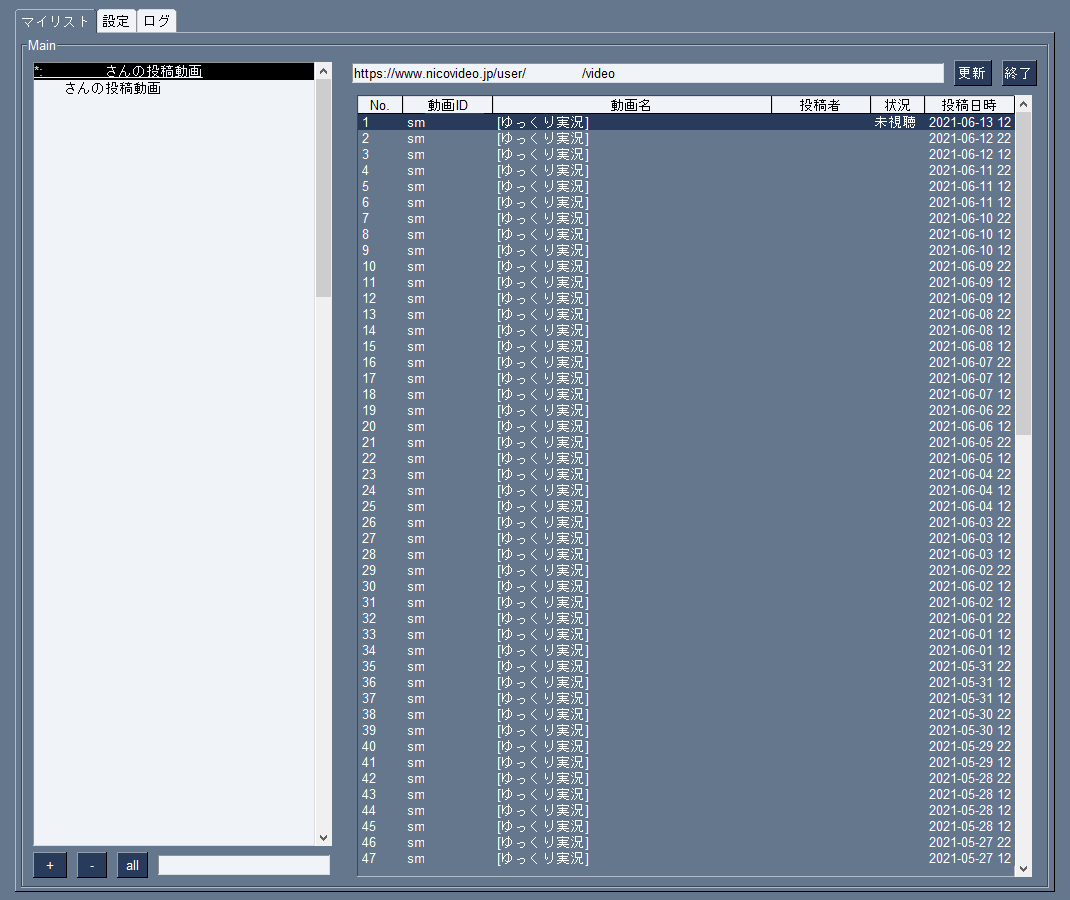
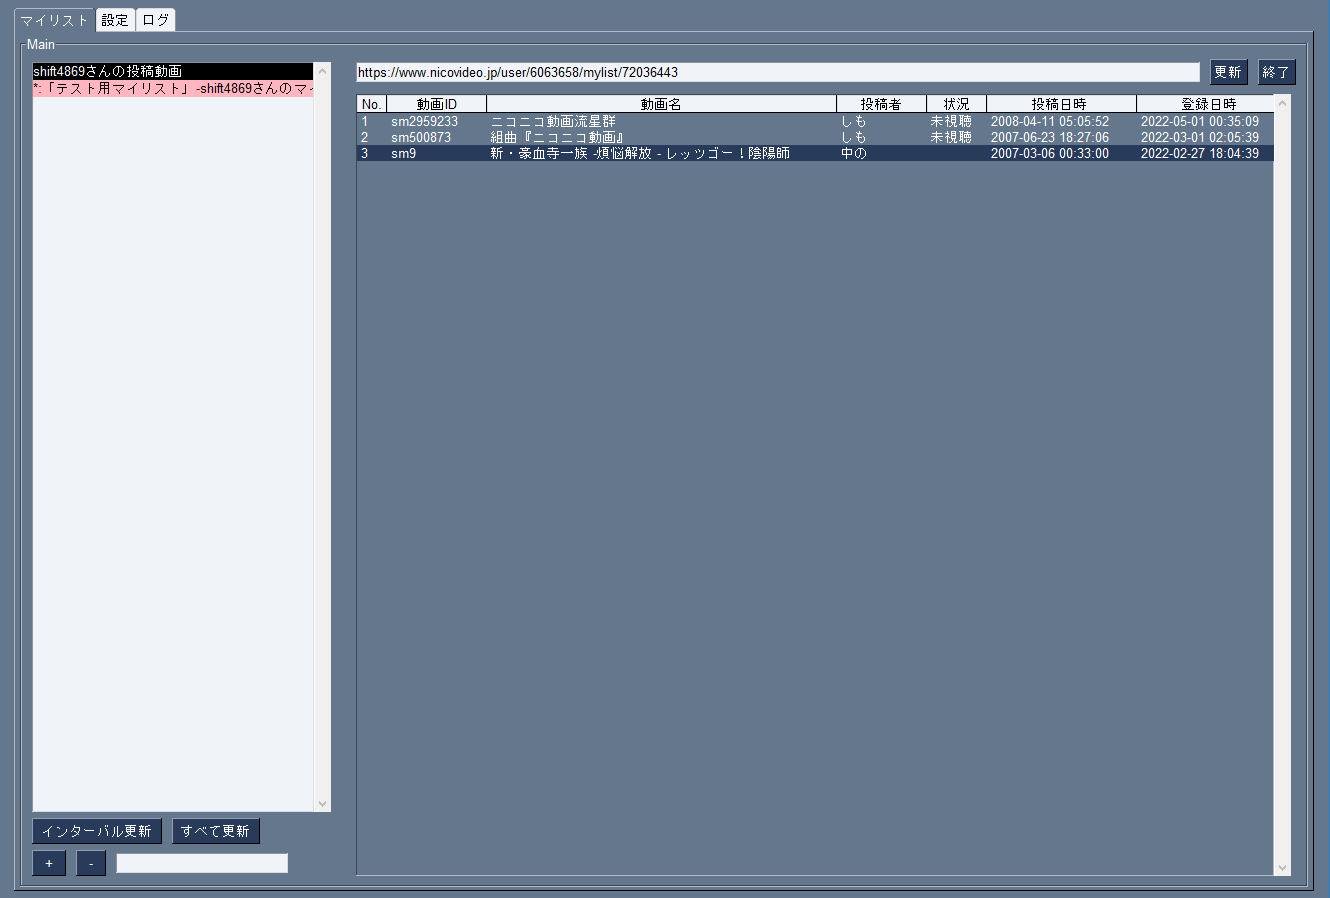
メインの外観反映

Changed region(s): [[0.0, 0.0, 1.0, 0.9978]]

diff --git a/NNMM/Process/ProcessCreateMylist.py b/NNMM/Process/ProcessCreateMylist.py
@@ -158,8 +158,10 @@ class ProcessCreateMylist(ProcessBase.ProcessBase):
         # mylist_url = self.values["-INPUT2-"]
 
         # 追加するマイリストURLをユーザーに問い合わせる
+        sample_url1 = "https://www.nicovideo.jp/user/*******/video"
+        sample_url2 = "https://www.nicovideo.jp/user/*******/mylist/********"
         # mylist_url = sg.popup_get_text("追加する マイリスト/ 投稿動画一覧 のURLを入力", title="追加URL")
-        mylist_url = PopupGetText("追加する マイリスト/ 投稿動画一覧 のURLを入力", title="追加URL")
+        mylist_url = PopupGetText(f"追加する マイリスト/ 投稿動画一覧 のURLを入力\n{sample_url1}\n{sample_url2}", title="追加URL")
 
         # キャンセルされた場合
         if mylist_url is None or mylist_url == "":

diff --git a/test/Test_MainWindow.py b/test/Test_MainWindow.py
@@ -238,7 +238,7 @@ class TestWindowMain(unittest.TestCase):
                 ]
                 l_pane = [
                     [sg.Listbox([], key="-LIST-", enable_events=False, size=(40, 44), auto_size_text=True, right_click_menu=listbox_right_click_menu)],
-                    [sg.Button(" partial(intarval update) ", key="-PARTIAL_UPDATE-"), sg.Button(" all(forced update) ", key="-ALL_UPDATE-")],
+                    [sg.Button(" インターバル更新 ", key="-PARTIAL_UPDATE-"), sg.Button(" すべて更新 ", key="-ALL_UPDATE-")],
                     [sg.Button("  +  ", key="-CREATE-"), sg.Button("  -  ", key="-DELETE-"), sg.Input("", key="-INPUT2-", size=(24, 10))],
                 ]
 

diff --git a/NNMM/MainWindow.py b/NNMM/MainWindow.py
@@ -128,7 +128,7 @@ class MainWindow():
         ]
         l_pane = [
             [sg.Listbox([], key="-LIST-", enable_events=False, size=(40, 44), auto_size_text=True, right_click_menu=listbox_right_click_menu)],
-            [sg.Button(" partial(intarval update) ", key="-PARTIAL_UPDATE-"), sg.Button(" all(forced update) ", key="-ALL_UPDATE-")],
+            [sg.Button(" インターバル更新 ", key="-PARTIAL_UPDATE-"), sg.Button(" すべて更新 ", key="-ALL_UPDATE-")],
             [sg.Button("  +  ", key="-CREATE-"), sg.Button("  -  ", key="-DELETE-"), sg.Input("", key="-INPUT2-", size=(24, 10))],
         ]
 

diff --git a/README.md b/README.md
@@ -12,36 +12,43 @@ NNMM = NicoNicoMylistManager
 
 ## 特徴（できること）
 - 機能
-    - 特定のマイリスト一覧表示
     - 特定のユーザーの投稿動画を一覧表示
+    - 特定のマイリスト一覧表示
     - 一覧に未視聴動画が含まれる場合マーキング（背景色）
     - 未視聴動画にマーキング（「状況」項目）
-    - ブラウザで動画ページを開く
-    - マイリスト情報更新（特定/全て）
+    - ブラウザで動画ページを開く（動画レコード右クリック）
+    - マイリスト情報更新（インターバル/すべて）
+        - インターバル更新
+            - 各マイリストごとに更新を確認する間隔を設定し、前回の更新からその間隔以上期間が開いていた場合に更新する
+        - すべて更新
+            - 常にすべてのマイリストを更新する
     - オートリロード
     - マイリスト検索
-    - 動画情報表示
+    - 動画名検索
+    - 情報表示
 
-- 実装予定機能
+- 未実装機能
     - シリーズ一覧表示
 
 ## 前提として必要なもの
-- Pythonの実行環境(3.9以上)
-- ニコニコのアカウント情報（今の所任意）
+- Pythonの実行環境(3.10以上)
 
 
 ## 使い方
-1. 右上のテキストボックス内に以下の形式のURLを入力する
-    - マイリスト：https://www.nicovideo.jp/user/{user_id}/mylist/{mylist_id}
+1. 左下のプラスマーク「+」を押す
+1. 表示されたテキストボックス内に以下のどちらかの形式のURLを入力する
     - 投稿動画：https://www.nicovideo.jp/user/{user_id}/video
-1. 左下のプラスマーク「+」を押して登録する
-1. 右上の更新ボタンで更新する
-    - マイリスト登録時に動画一覧が取得される
-        - このときは内部ブラウザによるレンダリングにより100件まで動画をスクレイピングする
-    - 以降はRSSで30件ずつ動画情報を取得する
+    - マイリスト：https://www.nicovideo.jp/user/{user_id}/mylist/{mylist_id}
+1. 初回はそのままページがスクレイピングされ動画情報が収集される
 1. 左側のマイリストペインから登録したマイリストをダブルクリックすると、取得した動画一覧が右ペインに表示される
-1. 設定タブからオートリロードの設定等が可能
-1. 左下のオールボタン「all」を押すと登録した全マイリストについて動画情報を更新する
+1. 登録したマイリストの動画一覧は以下のいずれかで更新される（RSSを用いて30件ずつ）
+    - 動画一覧が右ペインに表示されているときに右上の更新ボタンを押す
+    - オートリロード時
+        - 設定タブより間隔を指定できる
+    - インターバル更新ボタン押下時
+        - 前回の更新から「更新確認インターバル」以上期間が開いていた場合に更新対象となる
+        - それぞれの「更新確認インターバル」は右クリック→「情報表示」から確認できる
+    - すべて更新ボタン押下時
 1. マイリストペイン・動画一覧ペイン上で右クリックすることにより各種操作が可能
 
 
